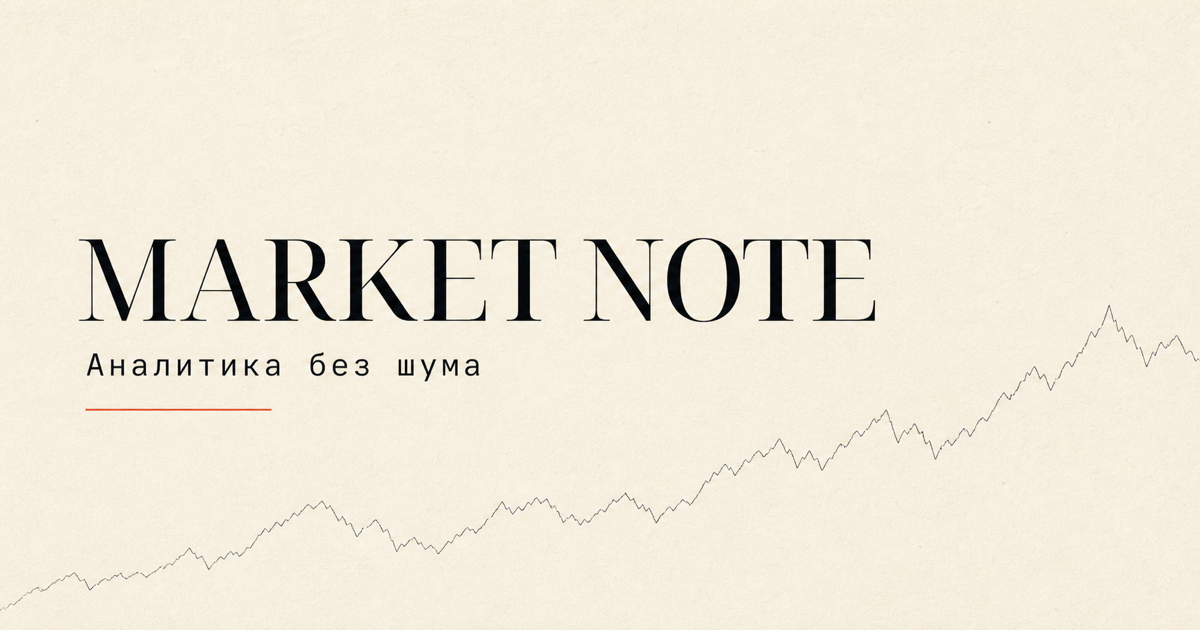
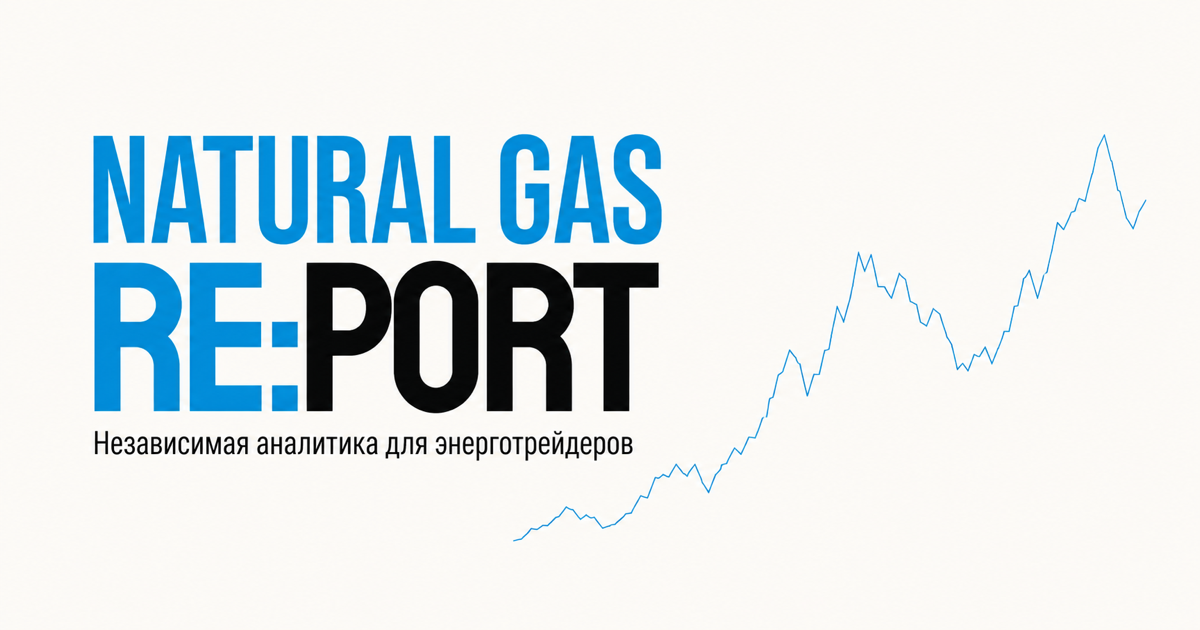
Refresh social preview for updated branding

diff --git a/app/layout.tsx b/app/layout.tsx
@@ -15,20 +15,20 @@ const geistMono = Geist_Mono({
 export const metadata: Metadata = {
   metadataBase: new URL(process.env.SITE_URL ?? 'http://localhost:3001'),
   title: {
-    default: 'Market Note — аналитика для энерготрейдеров',
-    template: '%s — Market Note',
+    default: 'Natural Gas RE:PORT — аналитика для энерготрейдеров',
+    template: '%s — Natural Gas RE:PORT',
   },
   description: 'Ежедневные обзоры рынка, сигналы и сценарии из Telegram — в удобном редакционном формате.',
   openGraph: {
     type: 'website',
     locale: 'ru_RU',
-    title: 'Market Note — аналитика для энерготрейдеров',
+    title: 'Natural Gas RE:PORT — аналитика для энерготрейдеров',
     description: 'Ежедневные обзоры рынка, сигналы и сценарии из Telegram — без информационного шума.',
-    images: [{ url: '/og.png', width: 1200, height: 630, alt: 'Market Note — аналитика без шума' }],
+    images: [{ url: '/og.png', width: 1200, height: 630, alt: 'Natural Gas RE:PORT — аналитика для энерготрейдеров' }],
   },
   twitter: {
     card: 'summary_large_image',
-    title: 'Market Note — аналитика для энерготрейдеров',
+    title: 'Natural Gas RE:PORT — аналитика для энерготрейдеров',
     description: 'Ежедневные обзоры рынка, сигналы и сценарии из Telegram — без информационного шума.',
     images: ['/og.png'],
   },

diff --git a/static-demo/index.html b/static-demo/index.html
@@ -6,9 +6,9 @@
     <meta name="robots" content="noindex, nofollow, noarchive, nosnippet, noimageindex" />
     <meta name="googlebot" content="noindex, nofollow, noarchive, nosnippet, noimageindex" />
     <meta name="referrer" content="strict-origin-when-cross-origin" />
-    <meta name="description" content="Статическая демонстрация аналитического лендинга Market Note." />
+    <meta name="description" content="Статическая демонстрация аналитического лендинга Natural Gas RE:PORT." />
     <meta name="theme-color" content="#faf9f6" />
-    <title>Market Note — статическая демонстрация</title>
+    <title>Natural Gas RE:PORT — статическая демонстрация</title>
     <link rel="icon" href="./assets/favicon.svg" type="image/svg+xml" />
     <link rel="stylesheet" href="./styles.css" />
   </head>

diff --git a/README.md b/README.md
@@ -1,4 +1,4 @@
-# Market Note
+# Natural Gas RE:PORT
 
 Одностраничный аналитический сайт для энерготрейдеров с серверной загрузкой публикаций из Telegram.
 
